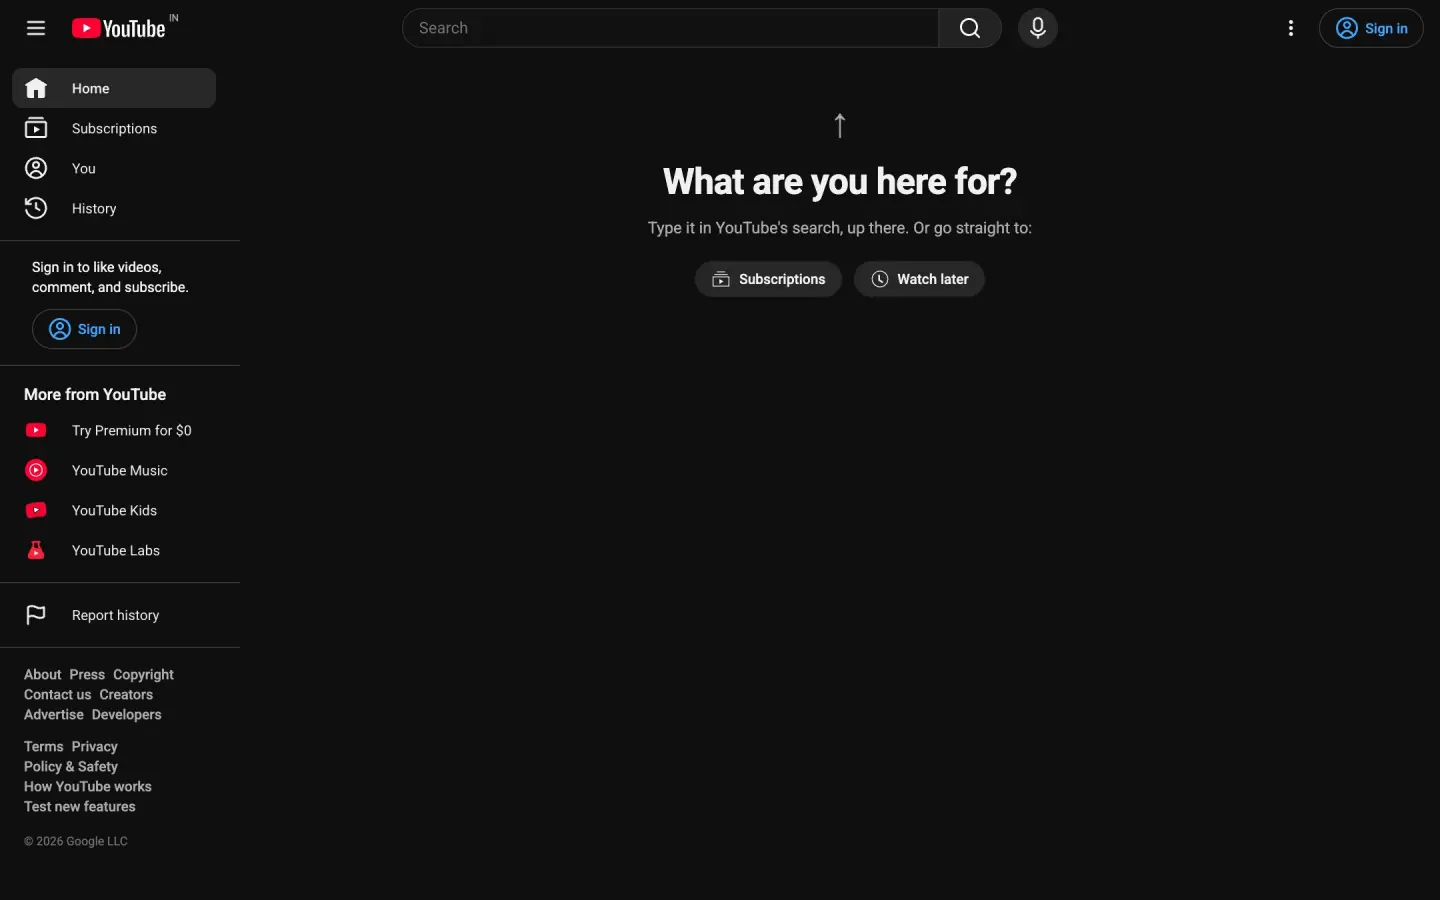
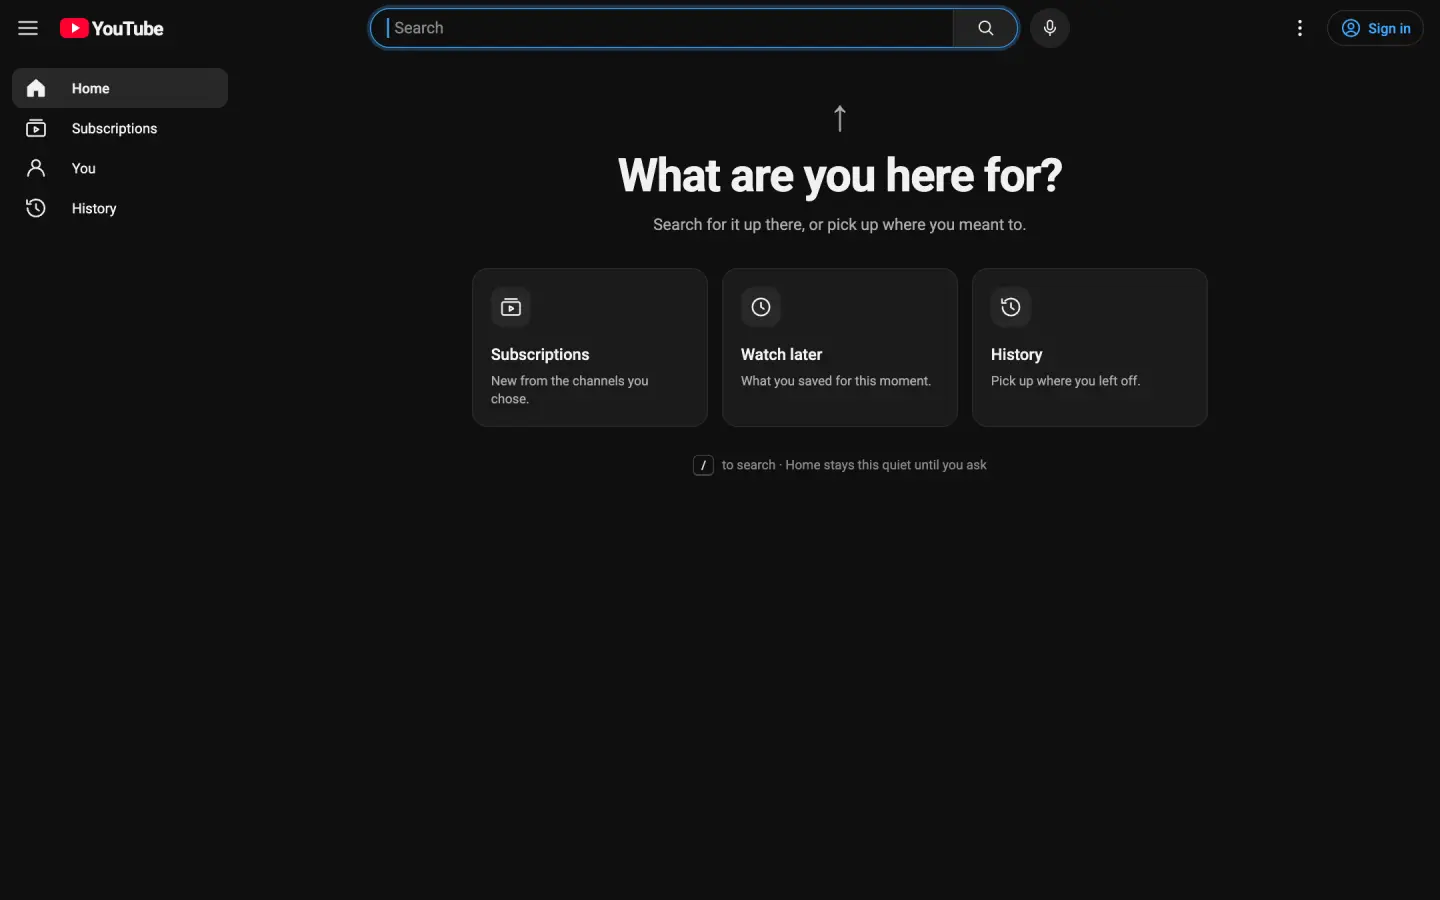
proto(#22): Home before/after shows a full feed (wall of thumbnails → Intention Page B), rendered from the page's own YouTube home; STATUS

diff --git a/site/prototype-home/index.html b/site/prototype-home/index.html
@@ -234,15 +234,15 @@ section.pad{padding-block:clamp(96px,11vw,160px)}
 .hs .cap .c2{position:absolute;left:0;top:0;white-space:nowrap}
 .hs .holder{align-self:center;justify-self:center;width:min(100%,calc((100vh - 72px - 150px) * 1.6))}
 .hs .frame{width:100%}
-.ytbox{position:relative;width:100%;aspect-ratio:1280/760;overflow:hidden;background:#0f0f0f}
-.yt{position:absolute;left:0;top:0;width:1280px;height:760px;transform:scale(var(--k,1));transform-origin:0 0;font-family:var(--yt);color:#f1f1f1;background:#0f0f0f;display:grid;grid-template-columns:232px 1fr;grid-template-rows:56px 1fr}
+.ytbox{position:relative;width:100%;aspect-ratio:1440/900;overflow:hidden;background:#0f0f0f}
+.yt{position:absolute;left:0;top:0;width:1440px;height:900px;transform:scale(var(--k,1));transform-origin:0 0;font-family:var(--yt);color:#f1f1f1;background:#0f0f0f;display:grid;grid-template-columns:240px 1fr;grid-template-rows:56px 1fr}
 .yt svg{width:24px;height:24px;fill:none;stroke:currentColor;stroke-width:1.7;stroke-linecap:round;stroke-linejoin:round}
-.yt .top{grid-column:1/-1;display:grid;grid-template-columns:232px 1fr 232px;align-items:center;padding:0 16px}
+.yt .top{grid-column:1/-1;display:grid;grid-template-columns:240px 1fr 240px;align-items:center;padding:0 16px}
 .yt .logo{display:flex;align-items:center;gap:20px;font:700 19px/1 var(--yt);letter-spacing:-.6px}
 .yt .logo span{display:inline-flex;align-items:center;gap:3px}
 .yt .logo i{width:29px;height:20px;border-radius:6px;background:#FF0033;display:grid;place-items:center}
 .yt .logo i::after{content:"";border-left:8px solid #fff;border-top:5px solid transparent;border-bottom:5px solid transparent;margin-left:2px}
-.yt .q{justify-self:center;display:flex;align-items:center;gap:12px;width:620px}
+.yt .q{justify-self:center;display:flex;align-items:center;gap:12px;width:700px}
 .yt .q .box{position:relative;flex:1;display:flex;height:40px;border:1px solid #303030;border-radius:40px;overflow:hidden;transition:border-color .4s,box-shadow .4s}
 .yt .q .box span{flex:1;display:flex;align-items:center;padding:0 16px;color:#888;font-size:16px}
 .yt .q .box>i{width:64px;display:grid;place-items:center;background:#222;border-left:1px solid #303030}
@@ -261,7 +261,7 @@ section.pad{padding-block:clamp(96px,11vw,160px)}
 .yt .chipbar{display:flex;gap:12px;height:56px;align-items:center}
 .yt .chipbar span{padding:7px 12px;border-radius:8px;background:#272727;font-size:14px;font-weight:500;white-space:nowrap}
 .yt .chipbar span:first-child{background:#f1f1f1;color:#0f0f0f}
-.yt .grid{display:grid;grid-template-columns:repeat(4,1fr);gap:40px 16px}
+.yt .grid{display:grid;grid-template-columns:repeat(4,1fr);gap:28px 16px}
 .yt .card .th{position:relative;aspect-ratio:16/9;border-radius:12px;overflow:hidden;background:#272727}
 .yt .card .th img{width:100%;height:100%;object-fit:cover}
 .yt .card .th em{position:absolute;right:6px;bottom:6px;padding:2px 4px;border-radius:4px;background:rgb(0 0 0 / .8);font:500 12px/1.2 var(--yt);font-style:normal;color:#fff}
@@ -287,7 +287,7 @@ section.pad{padding-block:clamp(96px,11vw,160px)}
 .ip.B{padding-top:44px}
 .ip.B h1{font-size:46px;line-height:54px;letter-spacing:-1px}
 .ip.B .cards{display:grid;grid-template-columns:repeat(3,236px);gap:14px;margin-top:30px;text-align:left}
-.ip.B .cards a{display:grid;gap:14px;padding:18px;border-radius:16px;background:#1b1b1b;border:1px solid #2a2a2a}
+.ip.B .cards a{display:grid;align-content:start;gap:14px;padding:18px;border-radius:16px;background:#1b1b1b;border:1px solid #2a2a2a}
 .ip.B .cards i{width:40px;height:40px;border-radius:12px;display:grid;place-items:center;background:#272727}
 .ip.B .cards b{font-size:16px;font-weight:500}
 .ip.B .cards small{display:block;font-size:13px;color:#aaa;margin-top:4px;line-height:18px}
@@ -358,6 +358,13 @@ footer .legal a:hover{color:var(--text)}
 .wm.live .lamp{transition:transform .12s linear}
 .wm svg{position:relative;display:block;width:100%;height:auto}
 
+html[data-solo],html[data-solo] body{background:#0f0f0f}
+html[data-solo] .hbar,html[data-solo] #page>*:not(.homescene),html[data-solo] .hs .cap,html[data-solo] .tb{display:none!important}
+html[data-solo] .homescene{height:auto}html[data-solo] .hs{position:static;height:auto;padding:0;display:block;max-width:none}
+html[data-solo] .hs .holder{width:1440px}html[data-solo] .frame{border-radius:0;box-shadow:none}
+html[data-solo] .yt *{animation:none!important}
+html[data-solo=after] .yt .fade{display:none}html[data-solo=after] .ip{opacity:1}html[data-solo=after] .yt .caret{opacity:1}
+html[data-solo=after] .yt .q .box{border-color:#3ea6ff;box-shadow:0 0 0 3px rgb(62 166 255 / .25)}
 @media (prefers-reduced-motion:reduce){
   .homescene{height:auto}.hs{position:relative;height:auto;padding-block:48px}
   .yt .fade{opacity:0}.ip{opacity:1}.hs .c1{display:none}.hs .c2{opacity:1;position:static}
@@ -381,6 +388,7 @@ footer .legal a:hover{color:var(--text)}
 <body>
 <div id="page"></div>
 <script>
+const SOLO = new URLSearchParams(location.search).get('yt'); if (SOLO) document.documentElement.dataset.solo = SOLO;
 // Copy of ../../settings.json (2026-11-19) plus the Home choice (#21), which isn't in it yet.
 const SETTINGS = [
   {id:'home',name:'Home',group:'Home',calm:true,hint:'Asks what you’re here for'},
@@ -422,11 +430,11 @@ const tb = (k, btn) => `<div class="tb"><span><i></i><i></i><i></i></span><span 
 const SHOW = [
   { k: 'watch', label: 'Watch', marks: [['recommendations', 'Recommendations']], gone: [['recommendations', 'Nothing here pulling you away']], hides: ['Recommendations', 'End screens', 'Autoplay'], say: 'The video, its description, its playlist. Nothing pulls you elsewhere.' },
   { k: 'search', label: 'Search', marks: [['shorts', 'Shorts shelf'], ['shortsLink', 'Shorts'], ['explore', 'Explore']], gone: [], hides: ['Shorts shelf', 'Shorts link', 'Explore'], say: 'Every result stays. The detours go.' },
-  { k: 'home', label: 'Home', marks: [['shortsLink', 'Shorts'], ['explore', 'Explore']], gone: [], hides: ['Feed', 'Shorts link', 'Explore'], say: 'Home asks what you’re here for, and waits.' },
+  { k: 'home', label: 'Home', marks: [['feed', 'The feed'], ['shortsLink', 'Shorts'], ['explore', 'Explore']], gone: [], hides: ['The feed', 'Shorts link', 'Explore'], say: 'No wall of thumbnails. Home asks what you’re here for, and waits.' },
 ];
 // ---- story steps: capture, spotlight (% of the page), its label ----
 const STEPS = [
-  { g: 'Home', h: 'Home asks first.', p: 'No feed waiting. Just “What are you here for?” and YouTube’s own search.', k: 'home', r: [33.5, 8.5, 49.5, 12], l: 'The feed' },
+  { g: 'Home', h: 'Home asks first.', p: 'No feed waiting. Just “What are you here for?” and YouTube’s own search.', k: 'home', r: 'feed', l: 'The feed' },
   { g: 'Watch', h: 'The video, and only the video.', p: 'Suggestions, end screens and comments step aside. Nothing plays next by itself.', k: 'watch', r: 'recommendations', l: 'Recommendations' },
   { g: 'Shorts', h: 'No swipe hole.', p: 'Shorts leave every page. One a friend sends opens as a normal video.', k: 'search', r: 'shorts', l: 'Shorts shelf' },
   { g: 'Search', h: 'Every result. No detours.', p: 'The shelves between results go; every result stays.', k: 'search', r: [18.3, 12.4, 62, 86], l: 'Between results' },
@@ -674,7 +682,7 @@ fetch('feed/feed.json').then(r => r.json()).then(F => {
       <div class="fade" style="--d:10"><hr><h5>Explore</h5><a>${ys('trend')}Trending</a><a>${ys('music')}Music</a><a>${ys('game')}Gaming</a><a>${ys('news')}News</a><a>${ys('sport')}Sports</a></div></nav>
     <div class="main">
       <div class="chipbar fade" style="--d:0">${['All', 'Cricket', 'Gaming', 'Podcasts', 'Music', 'Live', 'Mixes', 'Comedy', 'Recently uploaded', 'New to you'].map(c => `<span>${c}</span>`).join('')}</div>
-      <div class="grid">${order.slice(0, 4).map(card).join('')}</div>
+      <div class="grid">${order.slice(0, 8).map(card).join('')}</div>
       <div class="shelf"><h3 class="fade" style="--d:12"><svg viewBox="0 0 24 24">${Y.shorts}</svg>Shorts</h3><div class="srow">${S.slice(0, 5).map(s => `<div class="sh fade" style="--d:${(d++ * 2.2).toFixed(1)}"><div class="th"><img src="feed/s-${s.id}.webp" alt="" loading="lazy" decoding="async"></div><h4>${esc(s.title)}</h4></div>`).join('')}</div></div>
       <div class="ip A"><span class="up">↑</span><h1>What are you here for?</h1><p>Type it in YouTube’s search, up there. Or go straight to:</p>
         <nav><a>${ys('subs')}Subscriptions</a><a>${ys('later')}Watch later</a></nav></div>
@@ -683,7 +691,7 @@ fetch('feed/feed.json').then(r => r.json()).then(F => {
         <p class="foot"><kbd>/</kbd> to search · Home stays this quiet until you ask</p></div>
     </div>`;
   const ybox = document.querySelector('.ytbox');
-  new ResizeObserver(([e]) => yt.style.setProperty('--k', e.contentRect.width / 1280)).observe(ybox);
+  new ResizeObserver(([e]) => yt.style.setProperty('--k', e.contentRect.width / 1440)).observe(ybox);
 });
 const hs = document.querySelector('.hs');
 

diff --git a/docs/STATUS.md b/docs/STATUS.md
@@ -97,6 +97,11 @@ product page; the profile lives in `extension/proto-profile/` (git-ignored).
   - Wipe drag fixed: Chrome was starting a native image drag (ghost copy, no pointer events).
     Images are `draggable=false`, pointer capture with `pointercancel` (ported from mihrab-ummah's
     `CoverCropper`).
+  - Home before/after (Najmush: "what's the benefit of a home which is already empty? … so many
+    thumbnails that I start scrolling"): the signed-out capture was empty, so the showcase's Home
+    slide and the story's Home step now use shots of the page's own YouTube home (two rows of
+    videos + Shorts → Intention Page B), rendered by `extension/scripts/prototype-home-shots.mjs`
+    (`?yt=before|after`), regions included. Real signed-in captures would be better later.
   - Next: Najmush reviews the rest of pass 3 (showcase, story/popup, numbers, end/footer). Then record the three #22 picks (Popup B→D, Intention Page D, page H)
     in #22 and here.
 
